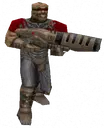
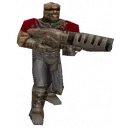
Give everyone an image

diff --git a/app/models/player.rb b/app/models/player.rb
@@ -1,6 +1,27 @@
 class Player < ApplicationRecord
   include ResultConstants
 
+  IMAGES = [
+    "blue_demoman.webp",
+    "blue_engineer.webp",
+    "blue_hwguy.webp",
+    "blue_medic.webp",
+    "blue_pyro.webp",
+    "blue_scout.webp",
+    "blue_sniper.webp",
+    "blue_soldier.webp",
+    "blue_spy.webp",
+    "red_demoman.webp",
+    "red_engineer.webp",
+    "red_hwguy.webp",
+    "red_medic.webp",
+    "red_pyro.webp",
+    "red_scout.webp",
+    "red_sniper.webp",
+    "red_soldier.webp",
+    "red_spy.webp",
+  ]
+
   # Include default devise modules. Others available are:
   # :confirmable, :lockable, :timeoutable, :trackable and :omniauthable
   # devise :database_authenticatable, :registerable,
@@ -20,7 +41,8 @@ class Player < ApplicationRecord
     player = find_or_initialize_by(discord_id: auth.uid)
     player.email = auth.info.email
     # player.password = Devise.friendly_token[0, 20]
-    player.image = auth.info.image # assuming the player model has an image
+    player.name = auth.info.name
+    player.image = auth.info.image || "home/classes/#{IMAGES.sample}"
     # If you are using confirmable and the provider(s) you use validate emails, 
     # uncomment the line below to skip the confirmation emails.
     # player.skip_confirmation!

diff --git a/db/migrate/20221223155336_assign_random_fo_player_class_image_to_players_without_disord_images.rb b/db/migrate/20221223155336_assign_random_fo_player_class_image_to_players_without_disord_images.rb
@@ -1,0 +1,13 @@
+class AssignRandomFoPlayerClassImageToPlayersWithoutDisordImages < ActiveRecord::Migration[7.0]
+  def up
+    Player.where(image: nil).each do |player|
+      player.update(image: "home/classes/#{Player::IMAGES.sample}")
+    end
+  end
+
+  def down
+    Player.where("image like ?", "home/classes/%").each do |player|
+      player.update(image: nil)
+    end
+  end
+end

diff --git a/db/schema.rb b/db/schema.rb
@@ -10,7 +10,7 @@
 #
 # It's strongly recommended that you check this file into your version control system.
 
-ActiveRecord::Schema[7.0].define(version: 2022_12_18_124734) do
+ActiveRecord::Schema[7.0].define(version: 2022_12_23_155336) do
   # These are extensions that must be enabled in order to support this database
   enable_extension "plpgsql"
 
